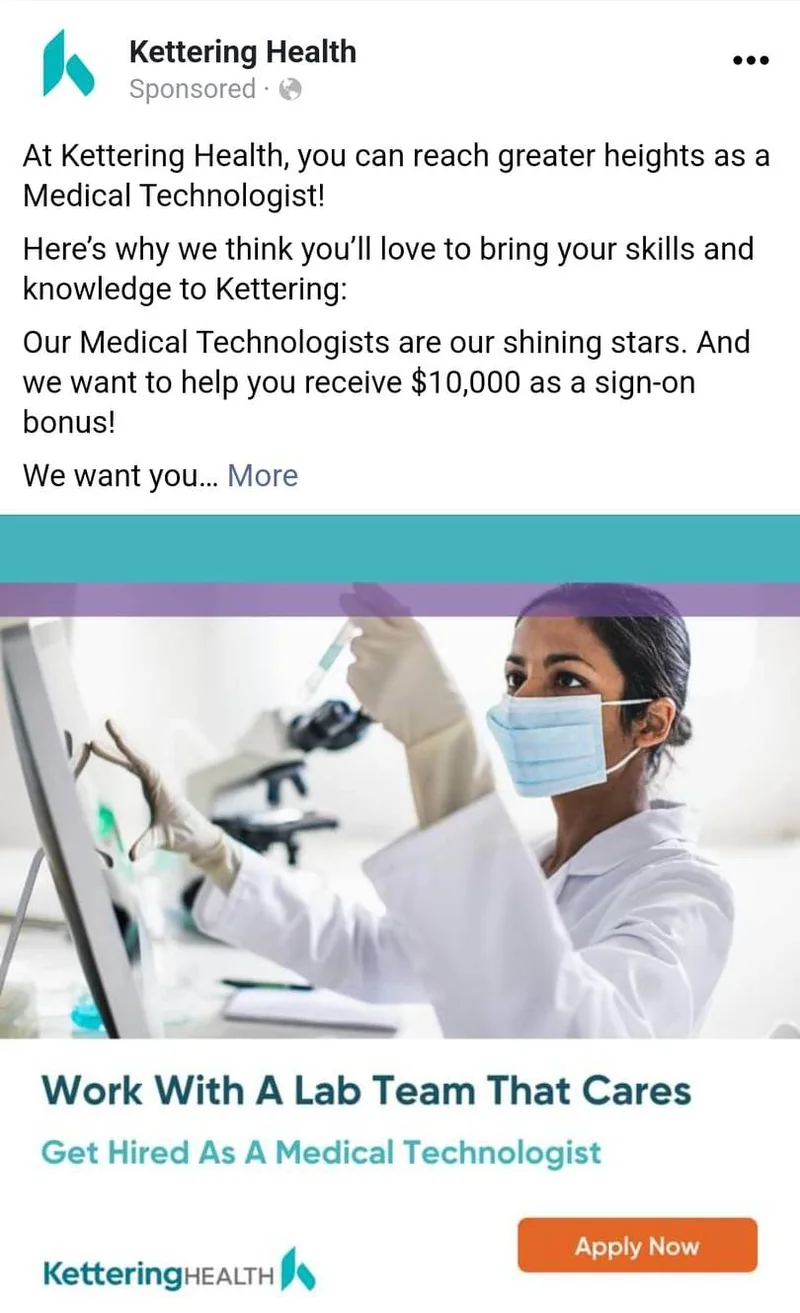
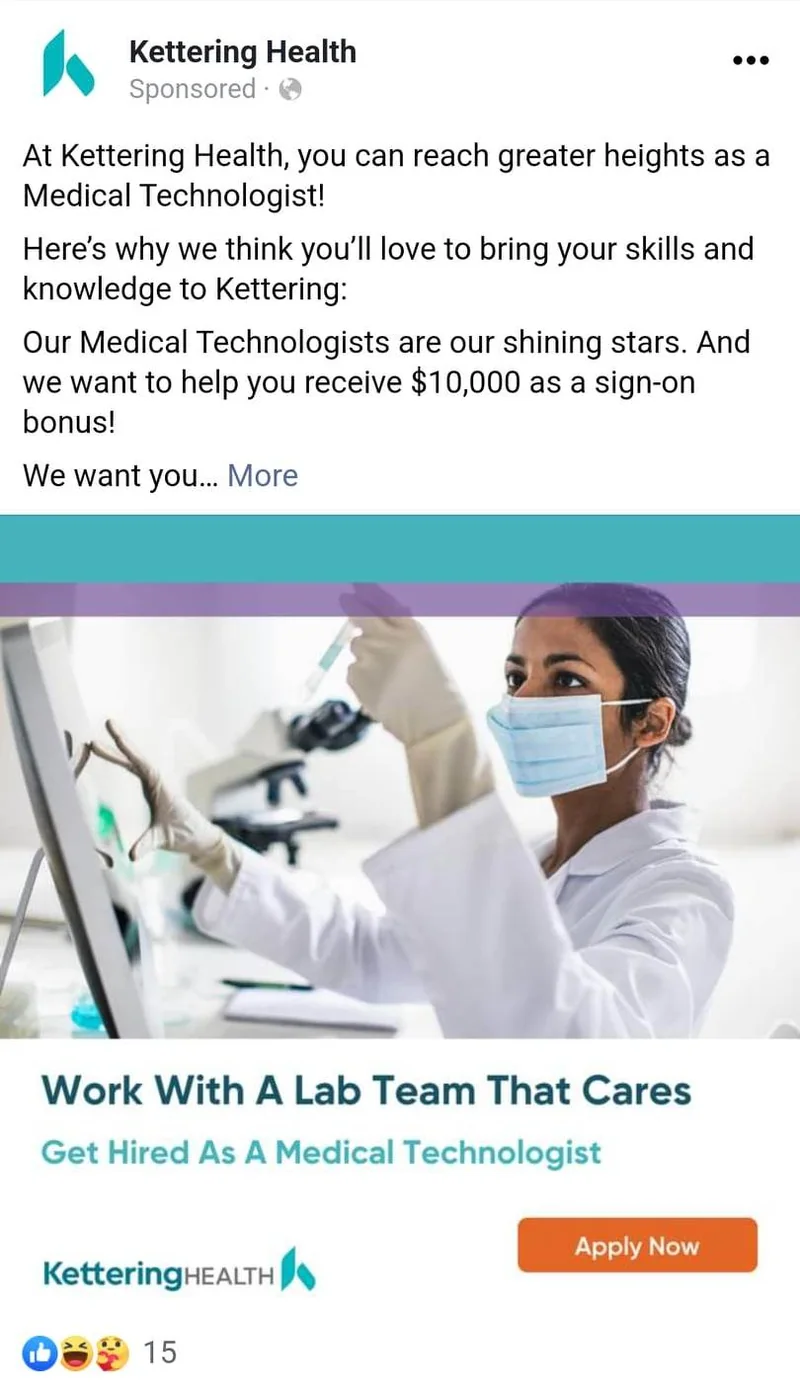
Add Menswear Style articles, link live Adventist Today pieces, keep real ad reactions
Claude-Session: https://claude.ai/code/session_01HwViuiWex7zkheWP3UABUj

diff --git a/index.html b/index.html
@@ -9,8 +9,8 @@
   <link rel="preconnect" href="https://fonts.googleapis.com">
   <link rel="preconnect" href="https://fonts.gstatic.com" crossorigin>
   <link href="https://fonts.googleapis.com/css2?family=Albert+Sans:wght@400;600&family=Cardo:ital,wght@0,400;0,700;1,400&family=Inter:wght@300;400;500;600;700&family=Newsreader:opsz,wght@6..72,400;6..72,500;6..72,600&display=swap" rel="stylesheet">
-  <link rel="stylesheet" href="assets/css/style.css?v=26">
-  <link rel="stylesheet" href="assets/css/home.css?v=26">
+  <link rel="stylesheet" href="assets/css/style.css?v=27">
+  <link rel="stylesheet" href="assets/css/home.css?v=27">
 </head>
 <body class="home" id="top">
   <a class="skip" href="#main">Skip to content</a>
@@ -96,7 +96,6 @@
         <span>Ignited Conference <small>Conference</small></span>
         <span>The Way <small>Ministry</small></span>
         <span>MedRecruiting <small>Email</small></span>
-        <span>Menswear Style Magazine <small>Publication</small></span>
       </div>
     </div>
 
@@ -408,6 +407,44 @@
         <div class="metric"><span class="num" data-copy="placeholder for Publications results: number 2"></span><span class="lbl" data-copy="placeholder for Publications results: label 2"></span></div>
         <div class="metric"><span class="num" data-copy="placeholder for Publications results: number 3"></span><span class="lbl" data-copy="placeholder for Publications results: label 3"></span></div>
       </div>
+      <div class="channel" id="pub-menswear">
+        <h3 class="ch-title">Menswear Style Magazine</h3>
+        <div class="pub">
+          <div class="pub-info">
+            <p class="result-lead"><span class="rl-tag">Result</span> <span data-copy="placeholder for Menswear Style Magazine articles: Result"></span></p>
+            <dl class="cs-facts">
+              <dt>Client</dt><dd>Menswear Style Magazine</dd>
+              <dt>Goal</dt><dd><span data-copy="placeholder for Menswear Style Magazine articles: Goal"></span></dd>
+              <dt>Audience</dt><dd><span data-copy="placeholder for Menswear Style Magazine articles: Audience"></span></dd>
+              <dt>What I did</dt><dd><span data-copy="placeholder for Menswear Style Magazine articles: What I did"></span></dd>
+            </dl>
+            <details class="process">
+              <summary>How I got there</summary>
+              <ol>
+                <li><span class="step">Brief</span><span data-copy="placeholder for Menswear Style Magazine articles, How I got there: Brief"></span></li>
+                <li><span class="step">Insight</span><span data-copy="placeholder for Menswear Style Magazine articles, How I got there: Insight"></span></li>
+                <li><span class="step">Directions explored</span><span data-copy="placeholder for Menswear Style Magazine articles, How I got there: Directions explored"></span></li>
+                <li><span class="step">Final</span><span data-copy="placeholder for Menswear Style Magazine articles, How I got there: Final"></span></li>
+                <li><span class="step">Why it worked</span><span data-copy="placeholder for Menswear Style Magazine articles, How I got there: Why it worked"></span></li>
+              </ol>
+            </details>
+          </div>
+          <div class="articles">
+            <a class="article" href="https://www.menswearstyle.co.uk/2024/02/09/how-to-be-fashionably-happy/11687" target="_blank" rel="noopener">
+              <img src="assets/img/article-menswear-how-to-be-fashionably-happy.webp" alt="Menswear Style article “How to Be Fashionably Happy” by Bryan Rivera" loading="lazy">
+              <span class="a-meta">Menswear Style · February 2024</span>
+              <span class="a-title">How to Be Fashionably Happy</span>
+              <span class="a-read">Read online ↗</span>
+            </a>
+            <a class="article" href="https://www.menswearstyle.co.uk/2023/02/08/microtrend/11318" target="_blank" rel="noopener">
+              <img src="assets/img/article-menswear-what-is-a-microtrend.webp" alt="Menswear Style article “What Is a Microtrend?” by Bryan Rivera" loading="lazy">
+              <span class="a-meta">Menswear Style · February 2023</span>
+              <span class="a-title">What Is a Microtrend?</span>
+              <span class="a-read">Read online ↗</span>
+            </a>
+          </div>
+        </div>
+      </div>
       <div class="channel" id="pub-715">
         <h3 class="ch-title">71.5 Magazine</h3>
         <div class="pub">
@@ -475,17 +512,17 @@
               <span class="a-title">Truth and Lies</span>
               <span class="a-read">Read the article (PDF) ↗</span>
             </a>
-            <a class="article" href="assets/docs/articles/adventist-today-turtles.pdf" target="_blank" rel="noopener">
+            <a class="article" href="https://atoday.org/turtles/" target="_blank" rel="noopener">
               <img src="assets/img/article-adventist-today-turtles.webp" alt="First page of “Turtles” in Adventist Today" loading="lazy">
               <span class="a-meta">Adventist Today · August 2017</span>
               <span class="a-title">Turtles</span>
-              <span class="a-read">Read the article (PDF) ↗</span>
+              <span class="a-read">Read online ↗</span>
             </a>
-            <a class="article" href="assets/docs/articles/adventist-today-the-feeling-of-awe.pdf" target="_blank" rel="noopener">
+            <a class="article" href="https://atoday.org/the-feeling-of-awe/" target="_blank" rel="noopener">
               <img src="assets/img/article-adventist-today-the-feeling-of-awe.webp" alt="First page of “The Feeling of Awe” in Adventist Today" loading="lazy">
               <span class="a-meta">Adventist Today · October 2017</span>
               <span class="a-title">The Feeling of Awe</span>
-              <span class="a-read">Read the article (PDF) ↗</span>
+              <span class="a-read">Read online ↗</span>
             </a>
           </div>
         </div>
@@ -829,6 +866,6 @@
     </div>
 
   </main>
-  <script src="assets/js/site.js?v=26"></script>
+  <script src="assets/js/site.js?v=27"></script>
 </body>
 </html>

diff --git a/CLAUDE.md b/CLAUDE.md
@@ -22,3 +22,5 @@
 - Source material: Bryan's Google Drive portfolio folder (folder id 1C3nGHUj1MAPHE_En-MVjSkKVw3_fqKE4) and the Google Site sites.google.com/view/enc6216ma2 (he wrote the Home and What You Can Do pages). The Drive 'Weber Shandwick' and 'LHH' folders are copies of other folders.
 - Kettering landing pages in the viewer are live captures of ketteringhealth.org/<location>-careers/ (tabs carry `data-live`; `.viewer-live` shows the link). Main Campus has no live page, so it uses Bryan's screenshot. chips-away-usa.com and where2network.com were unreachable (502) when checked.
 - Ad/post screenshots: crop to the post itself (from the page-name header to the end of the creative), removing phone status bars, nav buttons, app headers and link-preview strips; resize to 800px wide; show in `.shots.ads` frames at natural height.
+- Article cards link to the live article when it's online (Menswear Style, Adventist Today 'Turtles' and 'The Feeling of Awe'), otherwise to the PDF. atoday.org blocks automated browsers (Cloudflare), so its pages can't be captured.
+- Ad reaction rows are kept only where the screenshot actually shows them (Medical Technologist: 15, Soin nurses: 26). Never copy engagement numbers between posts.
